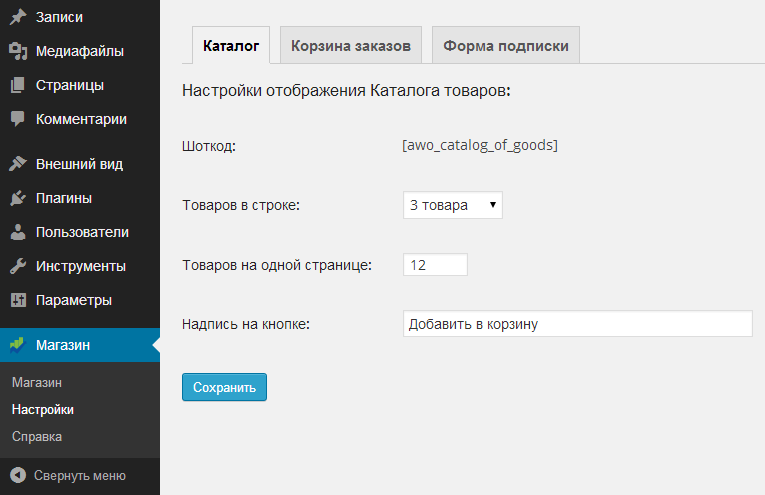
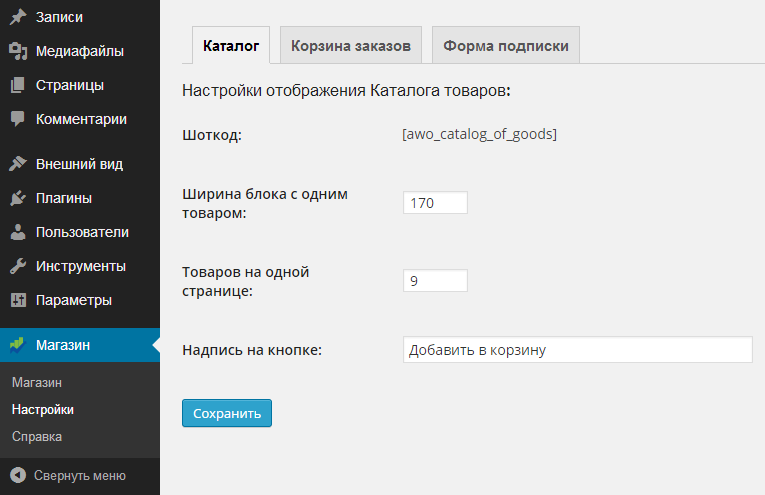
* Удалена настройка "Товаров в строке". Теперь плагин сам рассчитывает, сколько товаров может поместится в одной строке каталога * Добавлена возможность отслеживания UTM-меток во время подписки на рассылку магазина, передаваемых на страницы сайта
git-svn-id: https://plugins.svn.wordpress.org/autoweboffice-internet-shop/trunk@1012199 b8457f37-d9ea-0310-8a92-e5e31aec5664

diff --git a/autowebofficeinternetshop.php b/autowebofficeinternetshop.php
@@ -4,7 +4,7 @@
  * Plugin Name: AutoWebOffice Internet Shop
  * Plugin URI: http://wordpress.org/plugins/autoweboffice-internet-shop/
  * Description: Создание интернет магазина на базе платформы WordPress интегрированного с сервисом АвтоОфис
- * Version: 0.10
+ * Version: 0.11
  * Author: Alexander Kruglov (zakaz@autoweboffice.com)
  * Author URI: http://autoweboffice.com/
  */
@@ -215,7 +215,7 @@ if (!class_exists('AutowebofficeInternetShop'))
 				{
 					case 'save_catalog_settings':
 						// Сохраняем переданные настройки корзины заказа
-						$result_update_catalog_settings = $this->admin_update_catalog_settings($_POST['awo_catalog_goods_in_line'], $_POST['awo_catalog_goods_per_page'], $_POST['awo_catalog_settings_submit_value']);
+						$result_update_catalog_settings = $this->admin_update_catalog_settings($_POST['awo_catalog_goods_width'], $_POST['awo_catalog_goods_per_page'], $_POST['awo_catalog_settings_submit_value']);
 						
 						break;
 					case 'save_subscribe_form_settings':
@@ -284,7 +284,13 @@ if (!class_exists('AutowebofficeInternetShop'))
 			// Получаем массив с настройками отображения Каталога товаров
 			$catalog_settings = unserialize($awo_settings->catalog_settings);
 			
-			$awo_catalog_goods_in_line = (int)$catalog_settings['catalog_goods_in_line']; 
+			$awo_catalog_goods_width = (int)$catalog_settings['awo_catalog_goods_width']; 
+			
+			if($awo_catalog_goods_width < '150')
+			{
+				$awo_catalog_goods_width = 150; 
+			}
+			
 			$awo_catalog_goods_per_page = (int)$catalog_settings['catalog_goods_per_page']; 
 			$awo_catalog_settings_submit_value = $catalog_settings['catalog_settings_submit_value']; 
 
@@ -483,7 +489,6 @@ if (!class_exists('AutowebofficeInternetShop'))
 			// Если подключена библиотека cURL
 			if($curl = curl_init()) 
 			{
-				
 				// Массив с GET параметрами запроса
 				$array_query = array(
 								// API KEY
@@ -524,19 +529,64 @@ if (!class_exists('AutowebofficeInternetShop'))
 				// Цикл по массиву с товарами
 				foreach($out_obj as $key => $obj)
 				{
-
+				
 					// Проверяем существует ли данный товар у наз в БД
 					$awo_goods = $wpdb->get_row("SELECT id_goods FROM `".$this->tbl_awo_goods."` WHERE id_goods = ".$obj->id_goods);
 					
 					// Если товар уже существует, то обновляем информацию
 					if($awo_goods)
 					{
+						
+						$updateData['id_goods'] = $obj->id_goods;
+						$updateData['marking'] = $obj->marking;
+						$updateData['id_goods_category'] = $obj->id_goods_category;
+						$updateData['in_affiliate'] = $obj->in_affiliate;
+						$updateData['show_in_affiliate'] = $obj->show_in_affiliate;
+						$updateData['goods'] = $obj->goods;
+						$updateData['variants_name'] = $obj->variants_name;
+						$updateData['image'] = $obj->image;
+						$updateData['url_external_image'] = $obj->url_external_image;
+						$updateData['url_external_image_used'] = $obj->url_external_image_used;
+						$updateData['brief_description'] = $obj->brief_description;
+						$updateData['price'] = $obj->price;
+						$updateData['price_purchase'] = $obj->price_purchase;
+						$updateData['url_page'] = $obj->url_page;
+						$updateData['not_sold'] = $obj->not_sold;
+						$updateData['not_sold_message'] = $obj->not_sold_message;
+						$updateData['new_of_sales'] = $obj->new_of_sales;
+						$updateData['hit_of_sales'] = $obj->hit_of_sales;
+						$updateData['special_offer'] = $obj->special_offer;
+						$updateData['id_goods_kind'] = $obj->id_goods_kind;
+						$updateData['deleted'] = $obj->deleted;
+						$updateData['creation_date'] = $obj->creation_date;
+						$updateData['order_fields'] = $obj->order_fields;
+						$updateData['information_single_order'] = $obj->information_single_order;
+						$updateData['information_cart_order'] = $obj->information_cart_order;
+						$updateData['additional_order_fields'] = $obj->additional_order_fields;
+						$updateData['rest_in_stock'] = $obj->rest_in_stock;
+						$updateData['id_supplier'] = $obj->id_supplier;
+						$updateData['id_manufacturer'] = $obj->id_manufacturer;
+						$updateData['id_employee_created'] = $obj->id_employee_created;
+						$updateData['id_employee_deleted'] = $obj->id_employee_deleted;
+						$updateData['deleted_date'] = $obj->deleted_date;
+						$updateData['information_for_personal'] = $obj->information_for_personal;
+						$updateData['show_license_agreement'] = $obj->show_license_agreement;
+						$updateData['partner_program_levels_used'] = $obj->partner_program_levels_used;
+						$updateData['partner_program_levels'] = $obj->partner_program_levels;
+						$updateData['goods_color_name'] = $obj->goods_color_name;
+						$updateData['goods_size_name'] = $obj->goods_size_name;
+						$updateData['goods_color_used'] = $obj->goods_color_used;
+						$updateData['goods_size_used'] = $obj->goods_size_used;
+						
+						// Чистим массив
+						$formatData = array();
+						
 						// Составляем массив со значениями полей
-						foreach ($obj as $key => $value)
+						foreach ($updateData as $value)
 						{
-							$updateData[$key] = $value; // Наполняем массив
 							$formatData[] = '%s'; // Для всех полей указываем формат - Строка
 						}
+
 						
 						// Обновляем данные по Товару
 						$wpdb->update($this->tbl_awo_goods, $updateData, array('id_goods' => $obj->id_goods), $formatData, array('%d'));
@@ -545,19 +595,61 @@ if (!class_exists('AutowebofficeInternetShop'))
 					}
 					else // Если не существует, то добавляем данные по товару
 					{
+						
+						$insertData['id_goods'] = $obj->id_goods;
+						$insertData['marking'] = $obj->marking;
+						$insertData['id_goods_category'] = $obj->id_goods_category;
+						$insertData['in_affiliate'] = $obj->in_affiliate;
+						$insertData['show_in_affiliate'] = $obj->show_in_affiliate;
+						$insertData['goods'] = $obj->goods;
+						$insertData['variants_name'] = $obj->variants_name;
+						$insertData['image'] = $obj->image;
+						$insertData['url_external_image'] = $obj->url_external_image;
+						$insertData['url_external_image_used'] = $obj->url_external_image_used;
+						$insertData['brief_description'] = $obj->brief_description;
+						$insertData['price'] = $obj->price;
+						$insertData['price_purchase'] = $obj->price_purchase;
+						$insertData['url_page'] = $obj->url_page;
+						$insertData['not_sold'] = $obj->not_sold;
+						$insertData['not_sold_message'] = $obj->not_sold_message;
+						$insertData['new_of_sales'] = $obj->new_of_sales;
+						$insertData['hit_of_sales'] = $obj->hit_of_sales;
+						$insertData['special_offer'] = $obj->special_offer;
+						$insertData['id_goods_kind'] = $obj->id_goods_kind;
+						$insertData['deleted'] = $obj->deleted;
+						$insertData['creation_date'] = $obj->creation_date;
+						$insertData['order_fields'] = $obj->order_fields;
+						$insertData['information_single_order'] = $obj->information_single_order;
+						$insertData['information_cart_order'] = $obj->information_cart_order;
+						$insertData['additional_order_fields'] = $obj->additional_order_fields;
+						$insertData['rest_in_stock'] = $obj->rest_in_stock;
+						$insertData['id_supplier'] = $obj->id_supplier;
+						$insertData['id_manufacturer'] = $obj->id_manufacturer;
+						$insertData['id_employee_created'] = $obj->id_employee_created;
+						$insertData['id_employee_deleted'] = $obj->id_employee_deleted;
+						$insertData['deleted_date'] = $obj->deleted_date;
+						$insertData['information_for_personal'] = $obj->information_for_personal;
+						$insertData['show_license_agreement'] = $obj->show_license_agreement;
+						$insertData['partner_program_levels_used'] = $obj->partner_program_levels_used;
+						$insertData['partner_program_levels'] = $obj->partner_program_levels;
+						$insertData['goods_color_name'] = $obj->goods_color_name;
+						$insertData['goods_size_name'] = $obj->goods_size_name;
+						$insertData['goods_color_used'] = $obj->goods_color_used;
+						$insertData['goods_size_used'] = $obj->goods_size_used;
+						
+						// Чистим массив
+						$formatData = array();
+						
 						// Составляем массив со значениями полей
-						foreach ($obj as $key => $value)
+						foreach ($insertData as $value)
 						{
-							$insertData[$key] = $value; // Наполняем массив
 							$formatData[] = '%s'; // Для всех полей указываем формат - Строка
 						}
 						
-						$awo_description = '<b>'.$obj->goods.'</b>
-						'.$obj->brief_description.'
-						<p style="text-align: center;">[awo_link_to_order id_goods="'.$obj->id_goods.'"] [awo_link_to_single_order id_goods="'.$obj->id_goods.'"]</p>';
-						
+												
 						// Заполнение полей плагина
 						$insertData['awo_description'] = $awo_description; // Шаблон для страницы описания товара
+						$formatData[] = '%s'; // Для всех полей указываем формат - Строка
 						
 						$wpdb->insert($this->tbl_awo_goods, $insertData, $formatData);
 					}
@@ -602,16 +694,16 @@ if (!class_exists('AutowebofficeInternetShop'))
 		
 		/**
 		 * Функция сохранения настроек каталога магазина
-		 * $catalog_goods_in_line - Количество товаров в строке
+		 * $awo_catalog_goods_width - Ширина блока с одним товаром
 		 * $catalog_goods_per_page - Количество товаров на странице
 		 * $catalog_settings_submit_value - Надпись на кнопке Добавить в корзину
 		 */
-		private function admin_update_catalog_settings($catalog_goods_in_line, $catalog_goods_per_page, $catalog_settings_submit_value)
+		private function admin_update_catalog_settings($awo_catalog_goods_width, $catalog_goods_per_page, $catalog_settings_submit_value)
 		{	
 			global $wpdb;
 			
 			// Составляем сюриализованный массив со значениями настроек подключения
-			$catalog_settings = serialize(array('catalog_goods_in_line'=>$catalog_goods_in_line,
+			$catalog_settings = serialize(array('awo_catalog_goods_width'=>$awo_catalog_goods_width, 
 											'catalog_goods_per_page'=>$catalog_goods_per_page, 
 											'catalog_settings_submit_value' => $catalog_settings_submit_value));
 			
@@ -900,8 +992,8 @@ if (!class_exists('AutowebofficeInternetShop'))
 			global $wpdb;
 			
 			// Получаем значения переданных атрибутов
-			extract(shortcode_atts(array(
-				'catalog_goods_in_line' => '', // Если атрибут awo_catalog_goods_in_line не указан, то по умолчанию ставим 0
+			extract(shortcode_atts(array( 
+				'awo_catalog_goods_width' => '150',
 				'catalog_goods_per_page' => '',
 				'catalog_show_search' => '1',
 				'catalog_goods_type' => 'default',
@@ -932,13 +1024,13 @@ if (!class_exists('AutowebofficeInternetShop'))
 			$catalog_settings = unserialize($awo_settings->catalog_settings);
 			
 			// Если передали настройки через параметры Шоткода
-			if($catalog_goods_in_line != '')
+			if($awo_catalog_goods_width != 0 AND $awo_catalog_goods_width > 150)
 			{
-				$awo_catalog_goods_in_line = (int)$catalog_goods_in_line;
+				$awo_catalog_goods_width = (int)$awo_catalog_goods_width;
 			}
 			else
 			{
-				$awo_catalog_goods_in_line = (int)$catalog_settings['catalog_goods_in_line']; 
+				$awo_catalog_goods_width = (int)$catalog_settings['awo_catalog_goods_width']; 
 			}
 			
 			// Если передали настройки через параметры Шоткода
@@ -1055,17 +1147,10 @@ if (!class_exists('AutowebofficeInternetShop'))
 				include_once('html/html_catalog_search.php');
 			}
 			
-			switch ($awo_catalog_goods_in_line) 
-			{
-				case '4':
-					// Подключаем страницу с настроками Формы подписки
-					include_once('html/html_catalog_line_4.php');					
-					break;
-				default:
-					// Подключаем страницу с настроками API
-					include_once('html/html_catalog_line_3.php');					
-					break;
-			}
+
+			// Подключаем страницу с настроками Формы подписки
+			include_once('html/html_catalog.php');					
+
 			
 			// Получаем код пагинации для страницы
 			$paginate_links = $this->get_paginate_links($total_pages);

diff --git a/html/html_subscribe_form.php b/html/html_subscribe_form.php
@@ -1,5 +1,22 @@
 <?php
-$html_subscribe_form .= '<form action="https://'.$awo_storesId.'.autokassir.ru/?r=personal/newsletter/subscriptions/add&amp;id='.$awo_id_stores.'&amp;lg=ru" method="post" enctype="application/x-www-form-urlencoded" accept-charset="UTF-8">';
+
+// Если в сессии хранятся данные по UTM-меткам
+if(isset($_SESSION['awo_utm']))
+{
+	// Получаем данные по UTM-меткам
+	$utm = $_SESSION['awo_utm'];
+	
+	$html_subscribe_form .= '<form action="https://'.$awo_storesId.'.autokassir.ru/?r=personal/newsletter/subscriptions/add&amp;id='.$awo_id_stores.'&amp;lg=ru&utm_source='.$utm['utm_source']
+																																					.'&utm_campaign='.$utm['utm_campaign']
+																																					.'&utm_term='.$utm['utm_term']
+																																					.'&utm_content='.$utm['utm_content']
+																																					.'&utm_medium='.$utm['utm_medium'].'\'" method="post" enctype="application/x-www-form-urlencoded" accept-charset="UTF-8">';
+
+}
+else
+{
+	$html_subscribe_form .= '<form action="https://'.$awo_storesId.'.autokassir.ru/?r=personal/newsletter/subscriptions/add&amp;id='.$awo_id_stores.'&amp;lg=ru" method="post" enctype="application/x-www-form-urlencoded" accept-charset="UTF-8">';
+}
 
 $html_subscribe_form .= '<input type="hidden" value="'.$awo_id_newsletter.'" name="Contact[id_newsletter]">';
 $html_subscribe_form .= '<input type="hidden" value="'.$awo_id_advertising_channel_page.'" name="Contact[id_advertising_channel_page]">';

diff --git a/admin/help/order.php b/admin/help/order.php
@@ -30,7 +30,6 @@ include_once('navigation.php');
 <p>Дополнительная настройка</p>
 <p>Шоткод [awo_catalog_of_goods] может принимать дополнительные параметры:</p>
 <ul>
-	<li><b>catalog_goods_in_line</b>  – количество товаров выводимых в одной строке каталога</li>
 	<li><b>catalog_goods_per_page</b>  – количество товаров выводимых на одной странице каталога</li>
 	<li><b>catalog_show_search</b> – выводить или нет поле поиска по товарам (1 - выводить, 0 - скрыть)</li>
 	<li><b>catalog_goods_type</b> – можно указать тип каталога (default - все товары, new - новинки, hit - хиты продаж, special - специальные предложения)</li>
@@ -38,7 +37,7 @@ include_once('navigation.php');
 </ul>
 <p>Для передачи, добавьте необходимые вам параметры в тело шоткода:</p>
 <ul>
-	<li>[awo_catalog_of_goods catalog_goods_in_line=“3” catalog_goods_per_page=“12” catalog_settings_submit_value=“Добавить в корзину”]</li>
+	<li>[awo_catalog_of_goods catalog_goods_per_page=“12” catalog_settings_submit_value=“Добавить в корзину”]</li>
 </ul>
 
 <h3>Кнопки «Добавить в корзину» и «Заказать прямо сейчас»</h3>

diff --git a/admin/help/settings.php b/admin/help/settings.php
@@ -16,7 +16,7 @@ include_once('navigation.php');
 <p>Данные настройки будут использоваться по умолчанию для отображения Каталога товаров на страницах вашего интернет магазина.</p>
 <p><img src="<?php echo $this->plugin_url ;?>img/help/settings/step-3.png" style="border:1px solid black;" /></p>
 <ul>
-	<li><b>Товаров в строке</b> – отвечает за количество выводимых товаров на одной строке каталога.</li>
+	<li><b>Ширина блока с одним товаром</b> – отвечает за настройку ширины блока с отображением информации по одному товару каталога.</li>
 	<li><b>Товаров на одной странице</b> – отвечает за количество выводимых товаров на одной странице каталога.</li>
 	<li><b>Надпись на кнопке</b> – отвечает за надпись на кнопке «Добавить в корзину», выводимую под каждым товаром каталога.</li>
 </ul>

diff --git a/admin/settings/catalog.php b/admin/settings/catalog.php
@@ -22,12 +22,9 @@ include_once('navigation.php');
 		</tr>
 		
 		<tr valign="top">
-			<th scope="row"><label for="awo_catalog_goods_in_line">Товаров в строке:</label></th>
-			<td>
-				<select name="awo_catalog_goods_in_line" style="min-width: 100px;" id="awo_catalog_goods_in_line">
-					<option class="level-0" value="3" <?php if($awo_catalog_goods_in_line == 3 or $awo_catalog_goods_in_line == 0) echo 'selected="selected"';?>>3 товара</option>
-					<option class="level-0" value="4" <?php if($awo_catalog_goods_in_line == 4) echo 'selected="selected"';?>>4 товара</option>
-				</select>
+			<th scope="row"><label for="awo_catalog_goods_per_page">Ширина блока с одним товаром:</label></th>
+			<td><input name="awo_catalog_goods_width" type="number" id="awo_catalog_goods_width" 
+			value="<?php echo $awo_catalog_goods_width; ?>" class="small-text">
 			</td>
 		</tr>
 		
